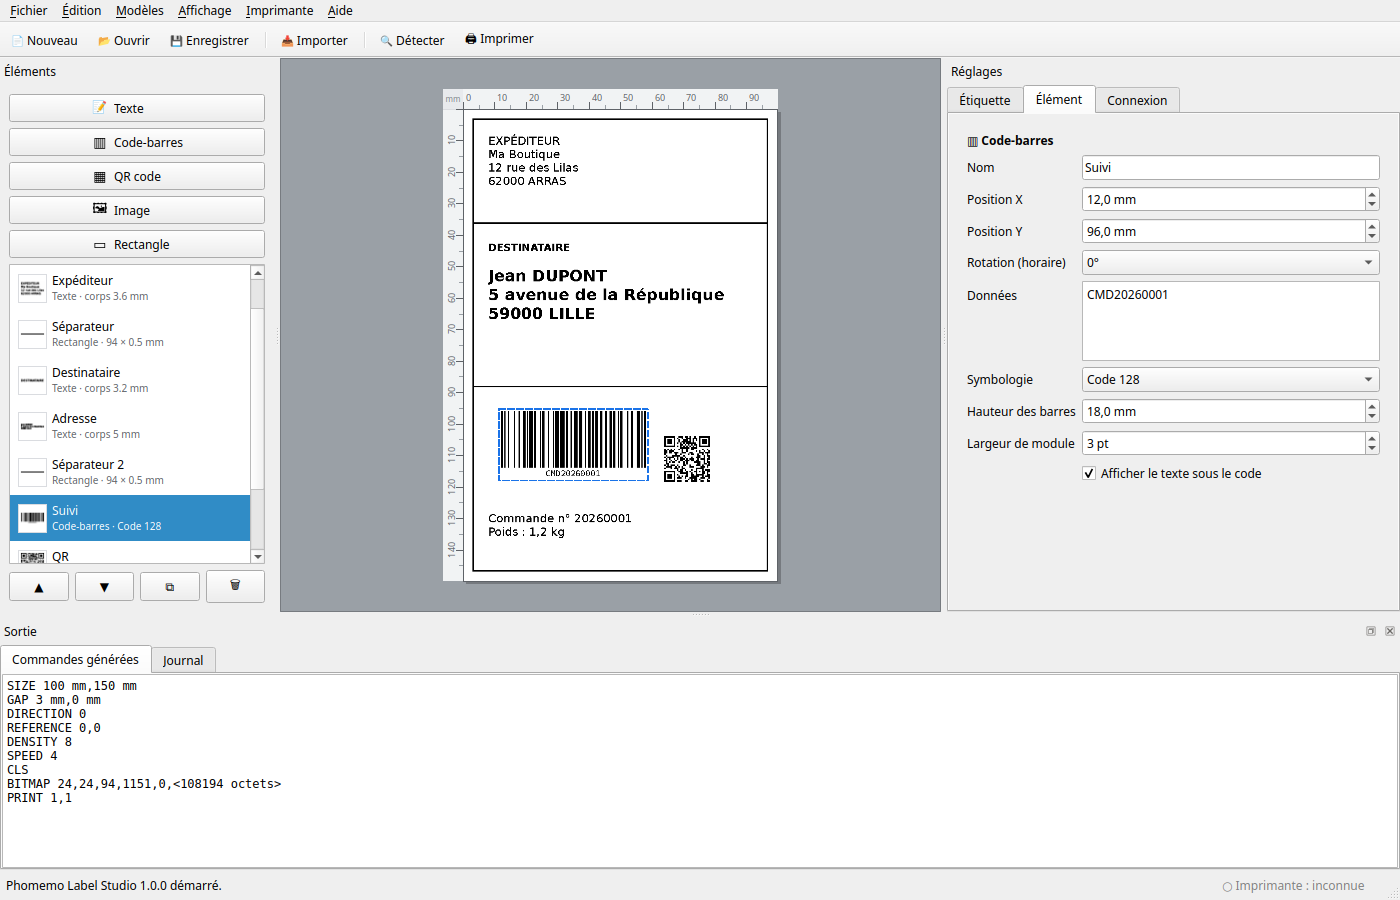
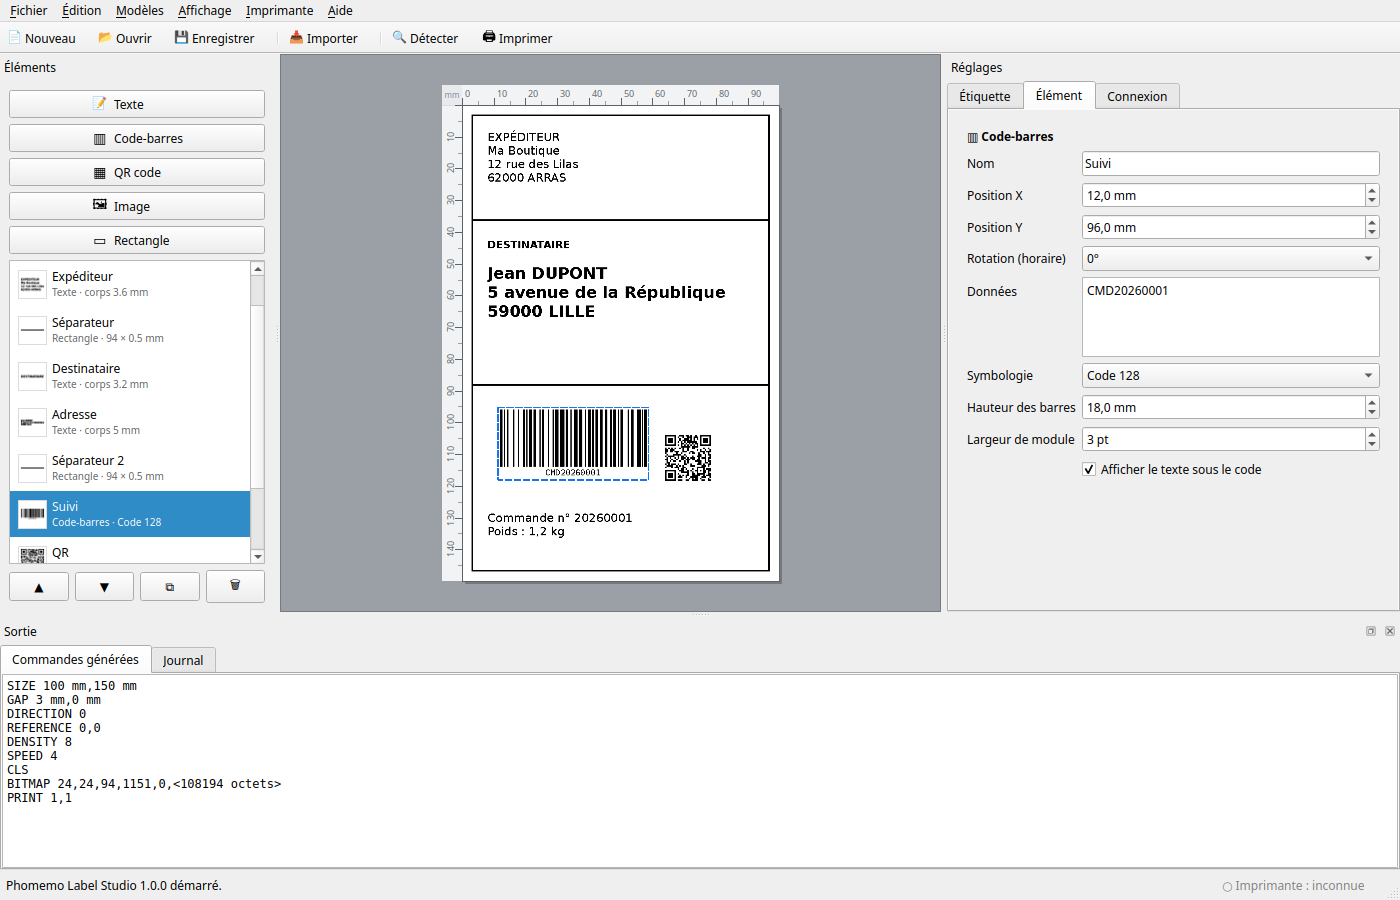
Interface : barre d'outils alignée, les émojis deviennent des icônes de 16 px
« Imprimer » mesurait 28 px de haut contre 24 pour ses voisins, et commençait
2 px plus haut : l'émoji 🖨 dans le libellé imposait une ligne plus haute que
les autres, et les glyphes avaient des tailles très inégales d'un bouton à
l'autre. Les émojis quittent donc le texte pour devenir des icônes de 16 px
dessinées par glyph_icon() — l'ancien kind_glyph(), qui ne connaît plus les
types d'éléments et sert aussi aux boutons d'ajout. La barre passe en
ToolButtonTextBesideIcon avec iconSize(16, 16) : même carré d'icône, même
écart, même police de texte, et six boutons de 24 px sur une ligne de base
commune.

Les icônes d'action apparaîtraient aussi dans les menus, sur six entrées
seulement : AA_DontShowIconsInMenus est posé dans apply_style(), et les
émojis sont retirés des libellés de menu qui les portaient, désormais inutiles.

Un test verrouille l'égalité des hauteurs et la taille des icônes : il aurait
échoué avant, 28 contre 24 et aucune icône.

🤖 Generated with Codebuff

diff --git a/labelstudio/ui/main_window.py b/labelstudio/ui/main_window.py
@@ -10,7 +10,7 @@ from typing import Any, Callable
 
 from PIL import ImageOps
 
-from PyQt6.QtCore import QRect, QSettings, Qt, QTimer, QUrl
+from PyQt6.QtCore import QRect, QSettings, QSize, Qt, QTimer, QUrl
 from PyQt6.QtGui import (
     QAction, QActionGroup, QColor, QDesktopServices, QFont, QFontMetrics, QIcon, QImage, QKeySequence,
     QPainter, QPixmap,
@@ -53,12 +53,13 @@ NEW_ELEMENT_DEFAULTS: dict[str, dict[str, Any]] = {
 }
 
 
-def kind_glyph(kind: str, size: int = 16) -> QIcon:
-    """Glyphe du type dessiné dans un carré de taille fixe.
+def glyph_icon(glyph: str, size: int = 16) -> QIcon:
+    """Glyphe dessiné dans un carré de taille fixe, pour servir d'icône.
 
-    Écrit dans le texte du bouton, un émoji impose sa propre hauteur et se cale mal sur la
-    ligne de base : « Image » sortait 4 px plus haut que les autres. En carré de taille
-    fixe, les cinq lignes ont le même encombrement.
+    Écrit dans le texte d'un bouton, un émoji impose sa propre hauteur et se cale mal sur la
+    ligne de base : « Image » sortait 4 px plus haut que les autres boutons d'ajout, et
+    « Imprimer » 4 px plus haut que les autres de la barre d'outils. En carré de taille fixe,
+    tous les boutons ont le même encombrement.
     """
     pix = QPixmap(size, size)
     pix.fill(Qt.GlobalColor.transparent)
@@ -66,7 +67,7 @@ def kind_glyph(kind: str, size: int = 16) -> QIcon:
     font = QFont()
     font.setPixelSize(size - 2)
     painter.setFont(font)
-    painter.drawText(QRect(0, 0, size, size), Qt.AlignmentFlag.AlignCenter, KIND_ICONS.get(kind, ""))
+    painter.drawText(QRect(0, 0, size, size), Qt.AlignmentFlag.AlignCenter, glyph)
     painter.end()
     return QIcon(pix)
 
@@ -225,7 +226,7 @@ class MainWindow(QMainWindow):
             glyph = QLabel()
             glyph.setObjectName("kindGlyph")
             glyph.setFixedSize(GLYPH_SIZE, GLYPH_SIZE)
-            glyph.setPixmap(kind_glyph(kind, GLYPH_SIZE).pixmap(GLYPH_SIZE, GLYPH_SIZE))
+            glyph.setPixmap(glyph_icon(KIND_ICONS[kind], GLYPH_SIZE).pixmap(GLYPH_SIZE, GLYPH_SIZE))
             caption = QLabel(KIND_LABELS[kind])
             caption.setObjectName("kindCaption")
             caption.setFixedWidth(text_width)
@@ -250,14 +251,18 @@ class MainWindow(QMainWindow):
         return box
 
     def _build_actions(self) -> None:
-        def act(text, slot, shortcut=None, tip=None, short=None):
-            """Action de menu ; `short` est le libellé compact affiché dans la barre d'outils.
+        def act(text, slot, shortcut=None, tip=None, short=None, icon=None):
+            """Action de menu ; `short` est le libellé compact et `icon` le glyphe de la barre.
 
             Qt sépare les deux : le menu garde la formulation complète, la barre d'outils se
             contente du libellé court, avec une infobulle rappelant le nom et le raccourci.
+            Le glyphe est une icône de 16 px, jamais un émoji dans le texte : sa hauteur
+            imposerait sinon un bouton plus haut que ses voisins.
             """
             a = QAction(text, self)
             a.triggered.connect(slot)
+            if icon:
+                a.setIcon(glyph_icon(icon))
             if short:
                 a.setIconText(short)
             if shortcut:
@@ -267,21 +272,21 @@ class MainWindow(QMainWindow):
             a.setToolTip(hint + (f" ({QKeySequence(shortcut).toString()})" if shortcut else ""))
             return a
 
-        a_new = act("Nouveau", self.new_label, "Ctrl+N", short="📄 Nouveau")
-        a_open = act("Ouvrir…", self.open_file, "Ctrl+O", short="📂 Ouvrir")
-        a_save = act("Enregistrer", self.save_file, "Ctrl+S", short="💾 Enregistrer")
+        a_new = act("Nouveau", self.new_label, "Ctrl+N", short="Nouveau", icon="📄")
+        a_open = act("Ouvrir…", self.open_file, "Ctrl+O", short="Ouvrir", icon="📂")
+        a_save = act("Enregistrer", self.save_file, "Ctrl+S", short="Enregistrer", icon="💾")
         a_saveas = act("Enregistrer sous…", lambda: self.save_file(as_new=True), "Ctrl+Shift+S")
         self.a_undo = act("Annuler", self.undo, "Ctrl+Z", "Revient à l'état précédent")
         self.a_redo = act("Rétablir", self.redo, "Ctrl+Shift+Z", "Refait la modification annulée")
         a_import = act("Importer des étiquettes Vinted / Leboncoin…", lambda: self.import_shipping(), "Ctrl+I",
-                       "Rogner et imprimer un bordereau PDF ou une image", short="📥 Importer")
+                       "Rogner et imprimer un bordereau PDF ou une image", short="Importer", icon="📥")
         a_png = act("Exporter l'aperçu (PNG)…", self.export_png)
         a_cmd = act("Exporter les commandes brutes…", self.export_commands)
         a_quit = act("Quitter", self.close, "Ctrl+Q")
-        self.a_print = act("🖨 Imprimer", self.print_label, "Ctrl+P", short="🖨 Imprimer")
-        self.a_detect = act("🔍 Détecter l'imprimante", self.detect_printer, "Ctrl+D",
+        self.a_print = act("Imprimer", self.print_label, "Ctrl+P", short="Imprimer", icon="🖨")
+        self.a_detect = act("Détecter l'imprimante", self.detect_printer, "Ctrl+D",
                             "Cherche l'imprimante Bluetooth / USB / série et teste la liaison",
-                            short="🔍 Détecter")
+                            short="Détecter", icon="🔍")
         self.a_test = act("Tester la connexion", self.test_connection)
         a_zin = act("Zoom +", lambda: self._set_zoom(self.canvas.px_per_mm * 1.25), "Ctrl++")
         a_zout = act("Zoom −", lambda: self._set_zoom(self.canvas.px_per_mm / 1.25), "Ctrl+-")
@@ -343,7 +348,8 @@ class MainWindow(QMainWindow):
         # menus restent la référence complète (avec raccourcis), pour ne pas tout afficher deux fois.
         tb = QToolBar("Principal")
         tb.setMovable(False)
-        tb.setToolButtonStyle(Qt.ToolButtonStyle.ToolButtonTextOnly)
+        tb.setToolButtonStyle(Qt.ToolButtonStyle.ToolButtonTextBesideIcon)
+        tb.setIconSize(QSize(GLYPH_SIZE, GLYPH_SIZE))
         self.addToolBar(tb)
         for a in (a_new, a_open, a_save):
             tb.addAction(a)

diff --git a/tests/test_ui.py b/tests/test_ui.py
@@ -20,7 +20,7 @@ from PyQt6.QtCore import QEvent, QPoint, QPointF, QSettings, Qt  # noqa: E402
 from PyQt6.QtGui import QColor, QIcon, QMouseEvent, QPixmap  # noqa: E402
 from PyQt6.QtTest import QTest  # noqa: E402
 from PyQt6.QtWidgets import (  # noqa: E402
-    QApplication, QLabel, QMessageBox, QPushButton, QStyleOptionViewItem,
+    QApplication, QLabel, QMessageBox, QPushButton, QStyleOptionViewItem, QToolBar, QToolButton,
 )
 
 from labelstudio import diagnostics, printer, templates  # noqa: E402
@@ -33,7 +33,7 @@ from labelstudio.ui.canvas import (  # noqa: E402
 )
 from labelstudio.ui import error_report  # noqa: E402
 from labelstudio.ui.connection_panel import ConnectionPanel  # noqa: E402
-from labelstudio.ui.main_window import ADD_BUTTON_HEIGHT, MainWindow  # noqa: E402
+from labelstudio.ui.main_window import ADD_BUTTON_HEIGHT, GLYPH_SIZE, MainWindow  # noqa: E402
 from labelstudio.ui.pairing_dialog import PairingDialog  # noqa: E402
 
 _APP: QApplication | None = None
@@ -522,6 +522,39 @@ class AddButtonTests(unittest.TestCase):
                          pos=caption.geometry().center())
         self.assertEqual(len(self.win.label.elements), before + 1)
         self.assertEqual(self.win.label.elements[-1].kind, "text")
+
+
+class ToolbarTests(unittest.TestCase):
+    """Barre d'outils : boutons de même hauteur, chacun avec une icône de taille fixe."""
+
+    def setUp(self):
+        probe = mock.patch.object(printer, "test_connection",
+                                  return_value=printer.TestResult(True, "Liaison établie."))
+        probe.start()
+        self.addCleanup(probe.stop)
+        for patch in patched_discovery():
+            patch.start()
+            self.addCleanup(patch.stop)
+        single = mock.patch("labelstudio.ui.main_window.QTimer.singleShot")
+        single.start()
+        self.addCleanup(single.stop)
+        self.win = MainWindow()
+        self.win._probe_timer.stop()
+        self.addCleanup(self.win.deleteLater)
+        self.win.resize(1440, 900)
+        self.win.show()  # sinon les boutons n'ont pas encore leur hauteur réelle
+        QApplication.processEvents()
+        toolbar = self.win.findChild(QToolBar)
+        self.buttons = [b for b in toolbar.findChildren(QToolButton) if b.text()]
+
+    def test_buttons_share_one_height_and_a_fixed_icon_size(self):
+        self.assertEqual(len(self.buttons), 6)
+        heights = {b.height() for b in self.buttons}
+        self.assertEqual(len(heights), 1, f"boutons de hauteurs différentes : {sorted(heights)}")
+        for b in self.buttons:
+            self.assertEqual(b.text(), b.defaultAction().iconText())
+            self.assertFalse(b.icon().isNull(), b.text())
+            self.assertEqual(b.iconSize().width(), GLYPH_SIZE, b.text())
 
 
 class ErrorReportTests(unittest.TestCase):

diff --git a/main.py b/main.py
@@ -3,6 +3,7 @@
 
 import sys
 
+from PyQt6.QtCore import Qt
 from PyQt6.QtWidgets import QApplication
 
 from labelstudio import diagnostics
@@ -14,6 +15,9 @@ def apply_style(app: QApplication) -> None:
     """Habillage commun à l'application et aux captures du README (outils/captures.py)."""
     app.setApplicationName("Phomemo Label Studio")
     app.setStyle("Fusion")
+    # Les icônes ne servent qu'à la barre d'outils : dans les menus, elles nuiraient à la
+    # lisibilité en n'apparaissant que sur quelques entrées.
+    app.setAttribute(Qt.ApplicationAttribute.AA_DontShowIconsInMenus, True)
     app.setStyleSheet(
         "QToolBar { spacing: 6px; padding: 4px; }"
         "QPushButton { padding: 5px 10px; }"
